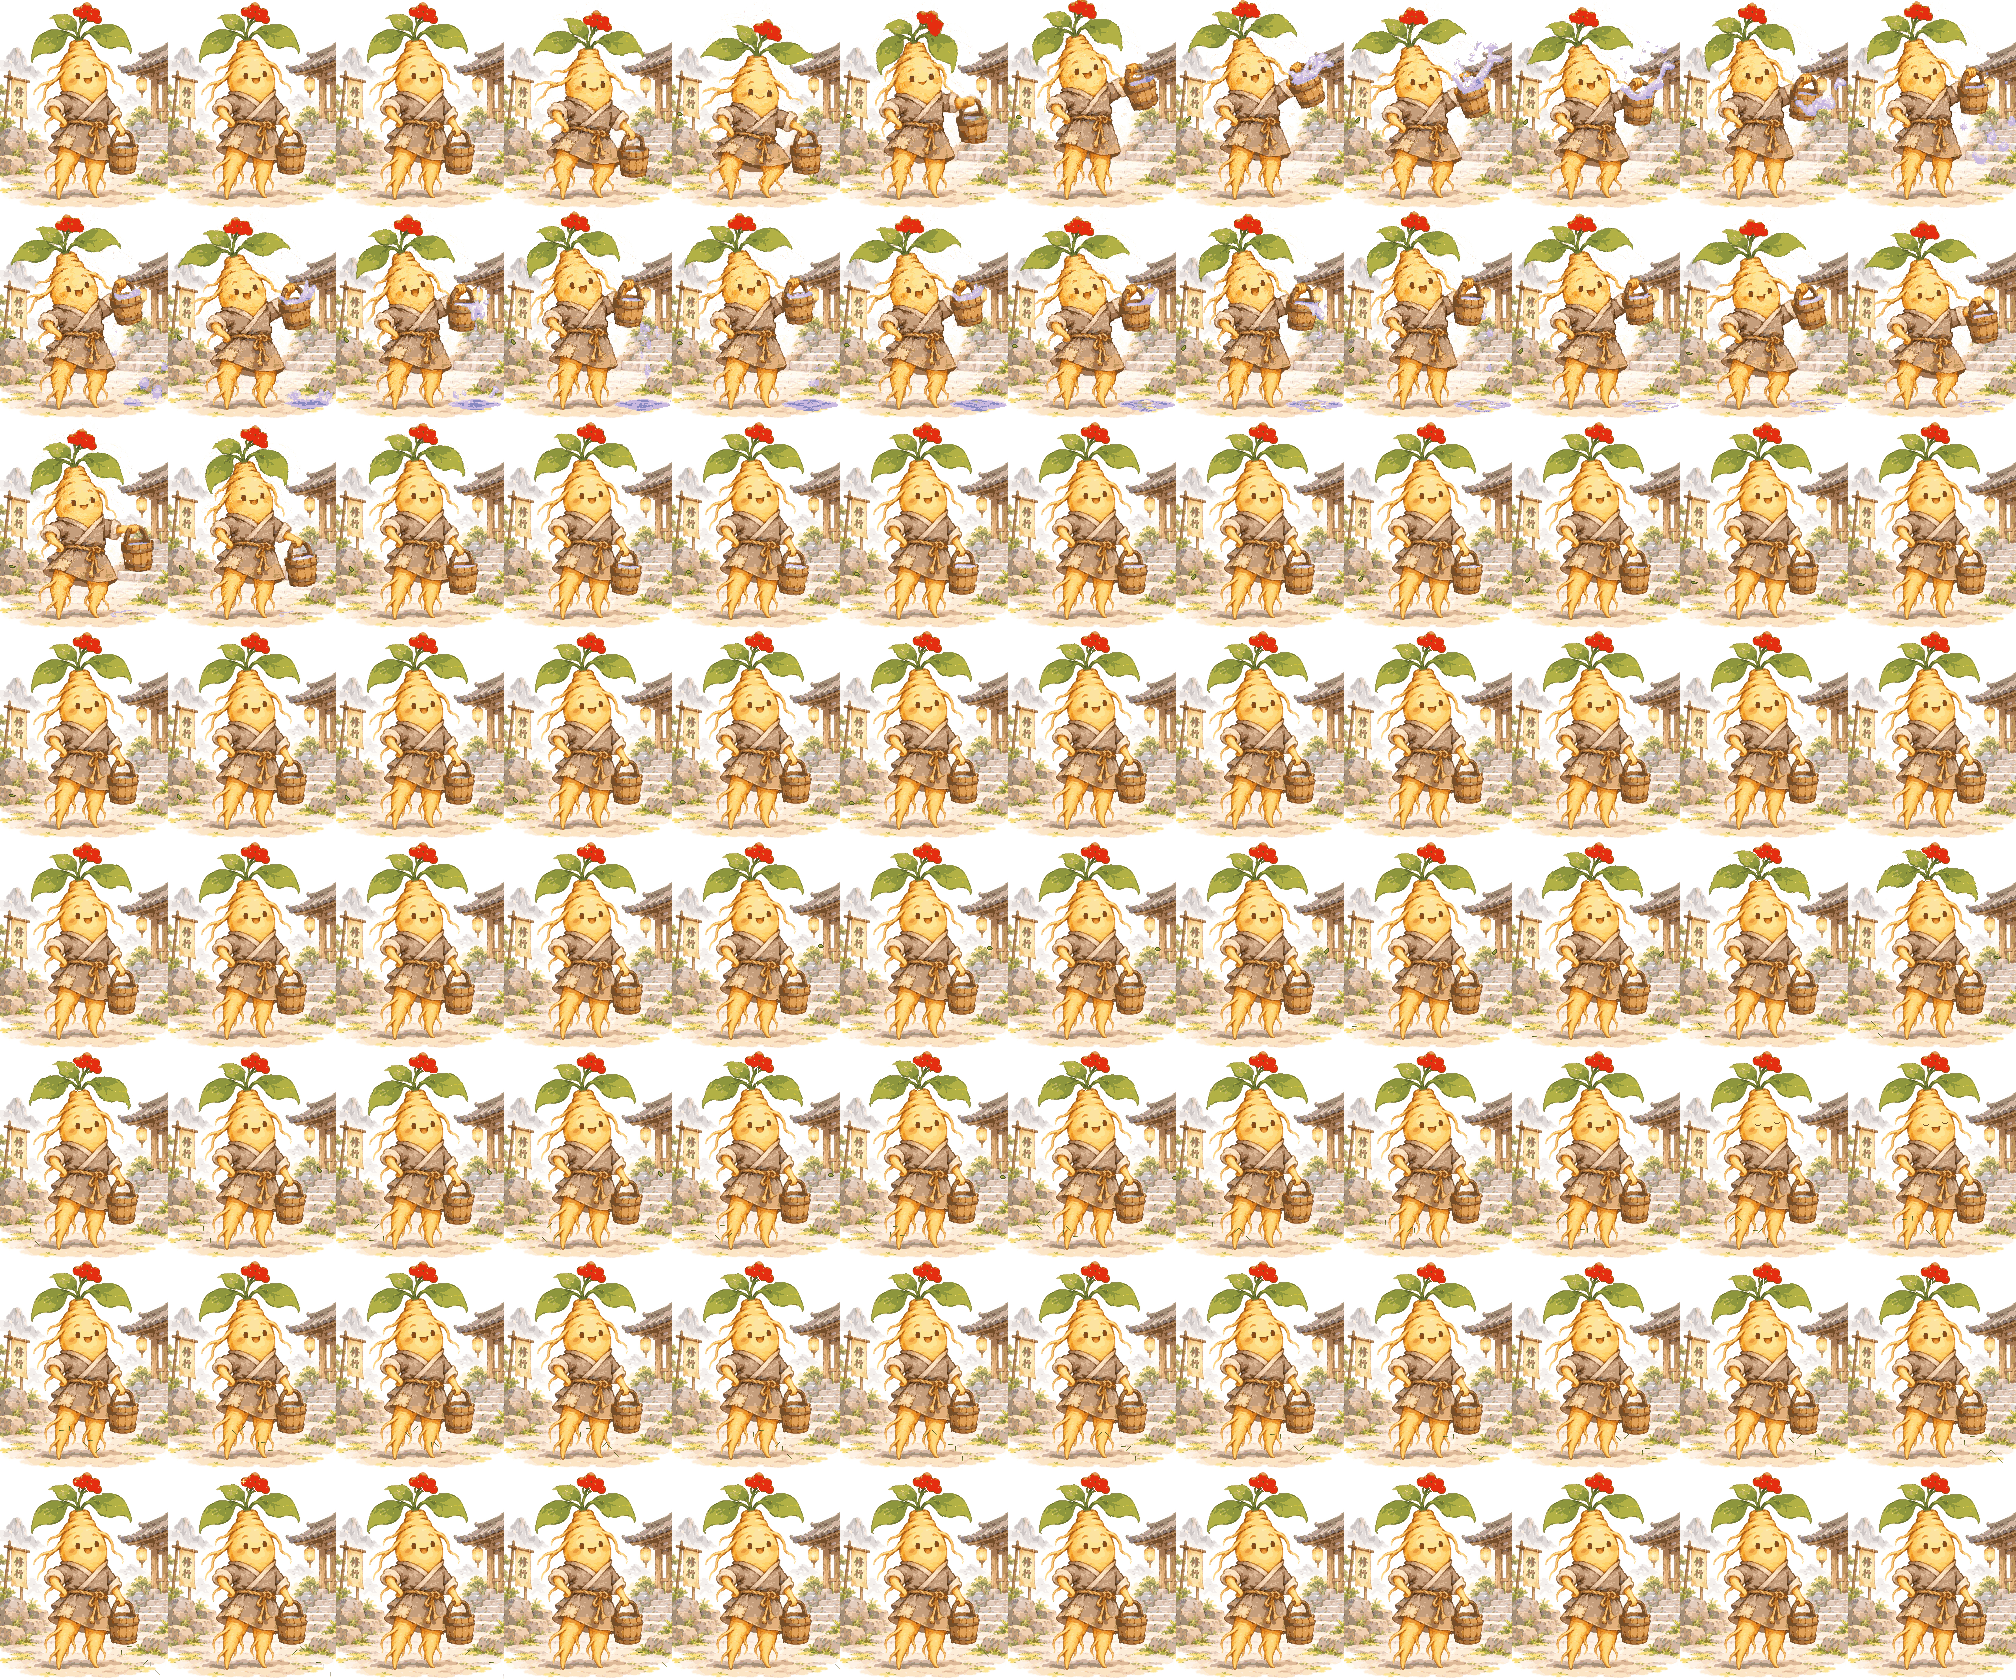
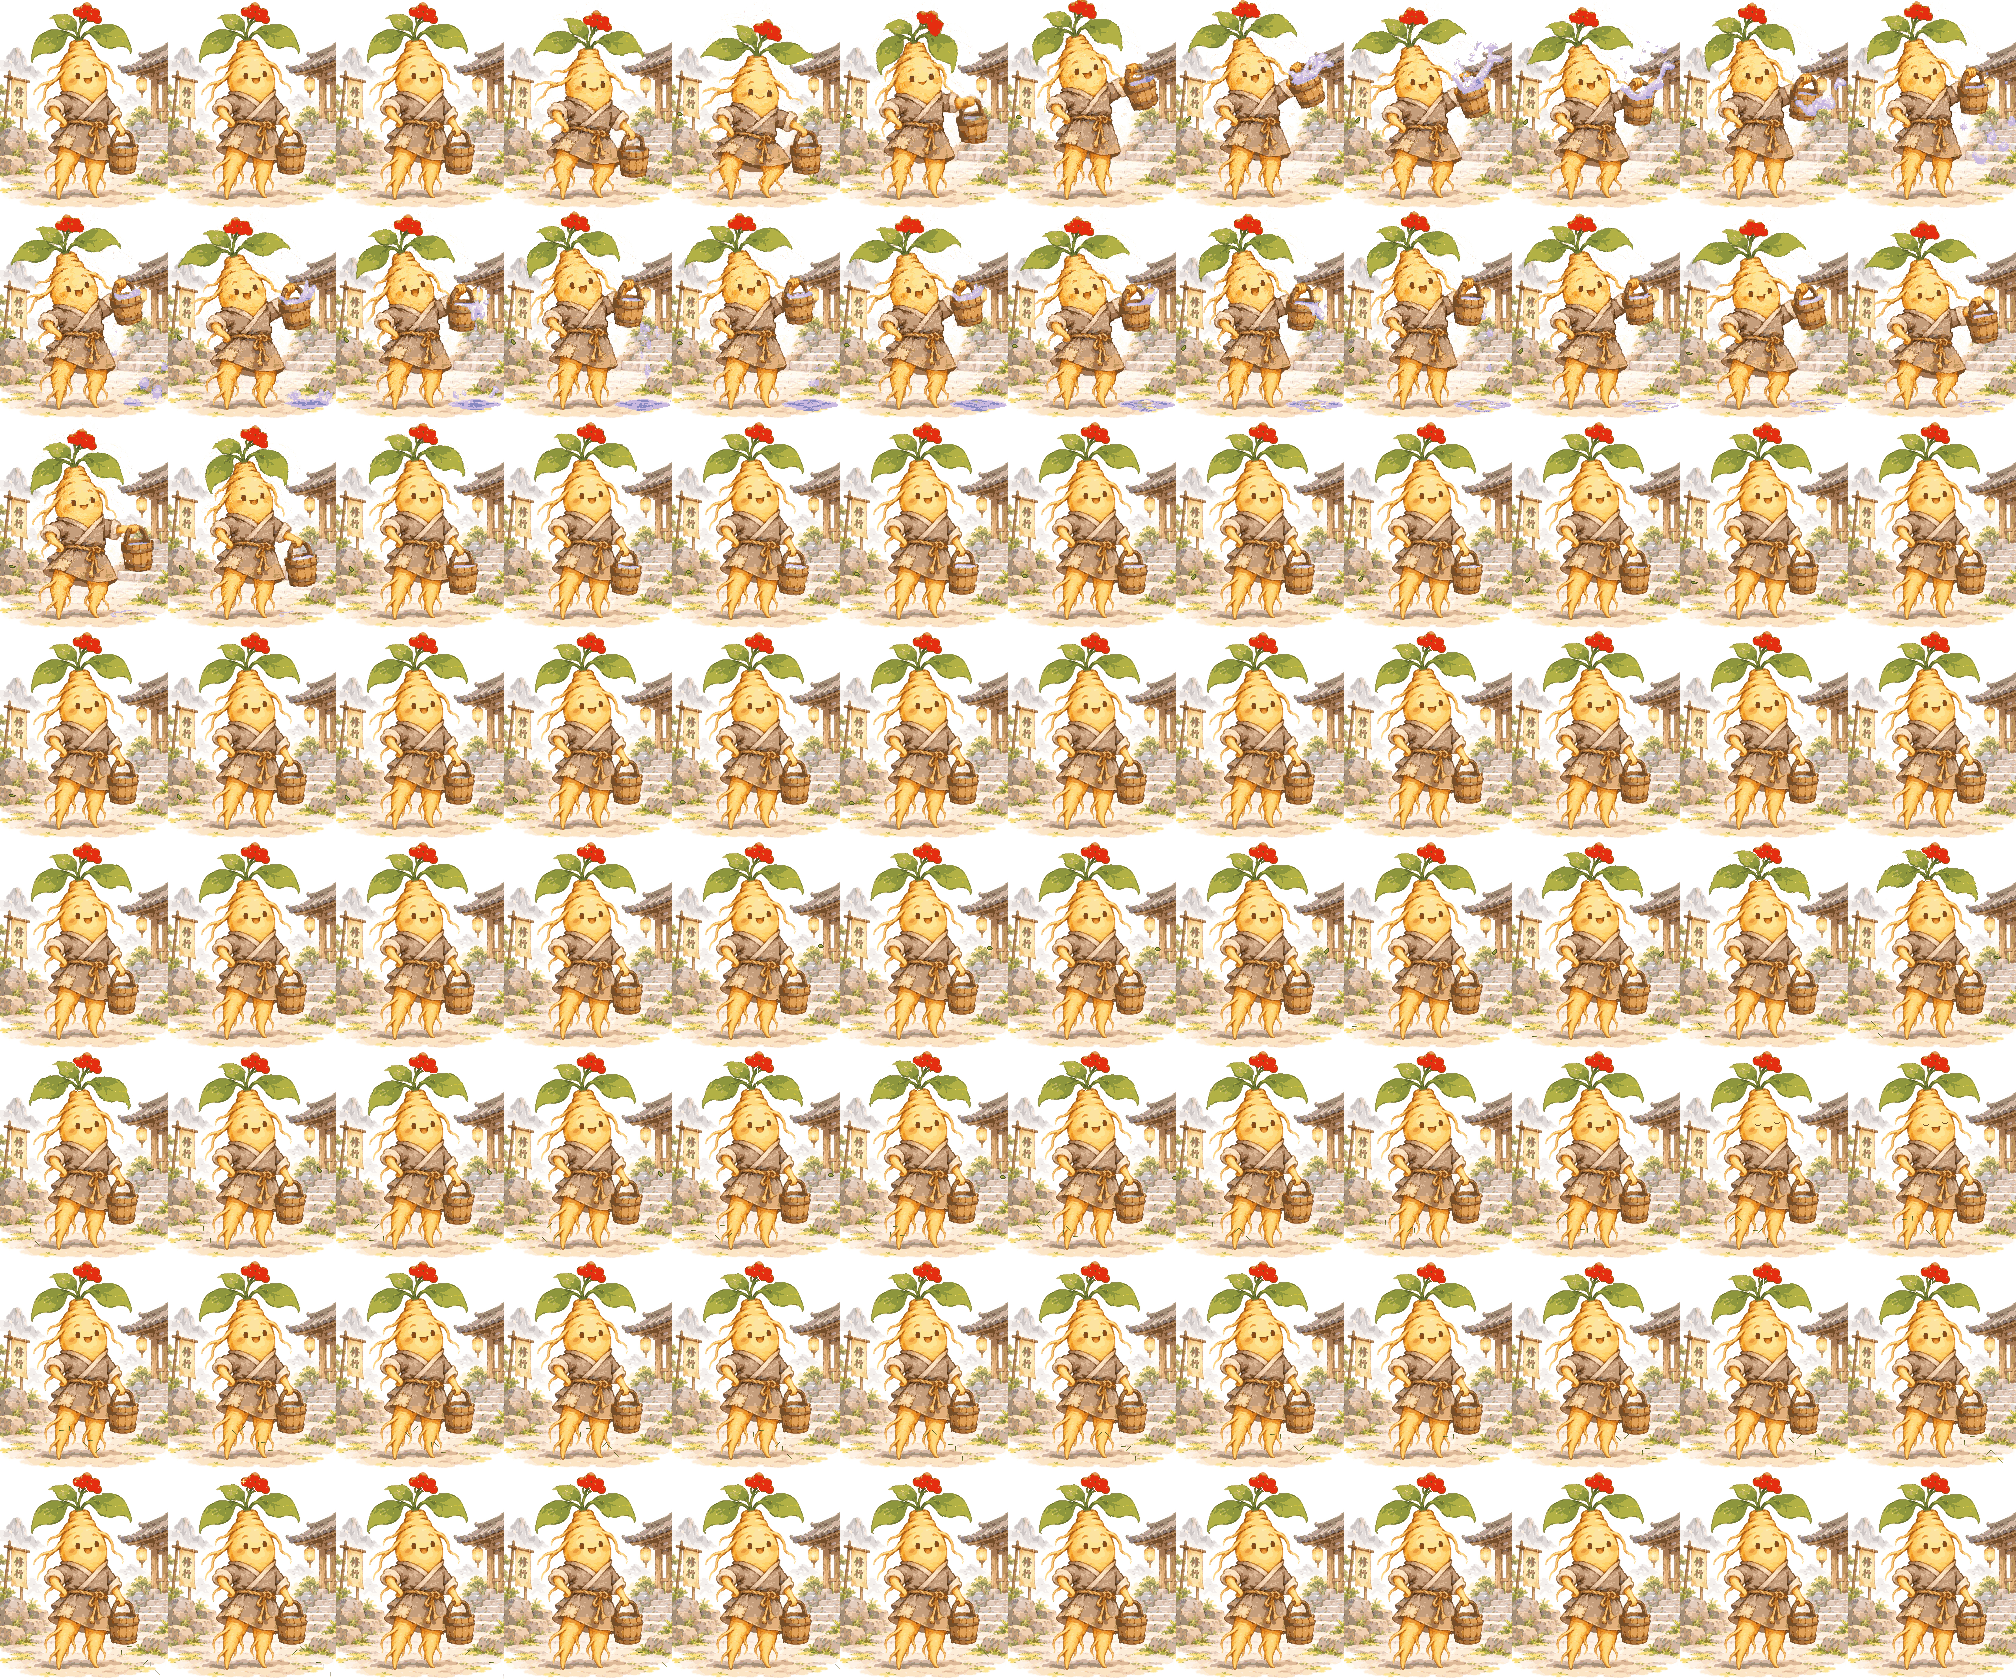
[立繪] B 方案 14 張全做：6 秒招牌動作接進程式動畫，收尾逐步換回原圖
- 13 張用 H3 各生 6 秒（指令寫死哪隻手不動，沒有再多手）；縮回像素、疊回環境特效、接在第 0 到 43 格
- 照片長取格（6.58 秒 = 44 格，最後一格取片尾）；最後 4 格依差距逐步換回原圖像素，出場只剩程式動畫本來就有的呼吸一格
- 對位：H3 片子固定 1440x1792，先試固定位置，對得上九成就不再慢慢找
- splice_all.py 一次跑 4 張；十四張_B6_一輪.gif 一次看全部
- 付費造型（make_style_anims.py）還沒接 B，app 也還沒換

Changed region(s): [[0.4375, 0.3714, 0.5625, 0.4952], [0.5938, 0.3714, 0.6562, 0.4952], [0.3438, 0.3714, 0.4062, 0.4952]]

diff --git a/.uiux/像素風立繪/水桶修圖實驗/B_影片/video_splice.py b/.uiux/像素風立繪/水桶修圖實驗/B_影片/video_splice.py
@@ -4,7 +4,7 @@
 為什麼不把 6 秒攤成 96 格：會變慢動作，提桶、水花都慢下來（0.5 倍慢放早就被退過）。
 
 做法：
-  1. 影片每 0.15 秒取一張（app 的播放速度），6 秒剛好 40 格；縮回 168×210、收色盤、防閃都跟 video15_to_pixels.py 同一套。
+  1. 影片每 0.15 秒取一張（app 的播放速度），片長 6.58 秒就是 44 格、最後一格取片尾；縮回 168×210、收色盤、防閃都跟 video15_to_pixels.py 同一套。
   2. 塞進程式動畫的第 START 格起，換掉程式做的那段招牌動作。程式動畫前 48 格身體是「低」的那一拍，
      影片首尾都是原圖，接回去只差葉子被風帶的一兩格，不會整個人跳。
   3. 影片那幾格照樣疊上同一格的環境特效（落葉、草屑、燈火……），特效才不會在動作那 6 秒消失：
@@ -25,9 +25,12 @@ from scipy import ndimage
 import video15_to_pixels as P
 from video15_to_pixels import A, GH, GW, V, px
 
-CLIP_FRAMES = 40       # 6 秒 ÷ 0.15 秒
 DEFAULT_START = 0      # 程式動畫第 0 格就是原圖，從這裡接最不會跳
 CHAR_LAB = 10          # 跟背景層差多少（Lab 距離）才算角色
+# 收尾：影片最後一張姿勢回到原圖了，但重畫過的毛邊、衣紋跟原圖的像素對不上，直接接回程式動畫那一格像突然變銳利
+# （出場那格差 5000 到 1 萬格，平常相鄰只差幾百）。最後幾格照這些門檻（Lab 距離）逐步換回原圖的像素，
+# 差得少的先換，最後一格整張就是原圖
+SETTLE_LAB = [25, 45, 70, None]
 
 
 def main():
@@ -37,8 +40,6 @@ def main():
     start = int(sys.argv[3]) if len(sys.argv) > 3 else DEFAULT_START
     if not os.path.isfile(video):
         raise SystemExit('找不到影片：' + video)
-    if not 0 <= start <= A.N - CLIP_FRAMES:
-        raise SystemExit('START 要在 0 到 %d 之間' % (A.N - CLIP_FRAMES))
 
     rg, pal, mask = A.build_rig(V.FOLDER, name)
     base, _ = A.load(V.FOLDER, name)
@@ -46,9 +47,22 @@ def main():
     quant = lambda rgb: pal[px.nearest(px.rgb2lab(np.clip(rgb, 0, 255).reshape(-1, 3)), pal_lab).reshape(GH, GW)].astype(np.float32)
 
     files = P.extract(video, name + '_B6')
-    # H3 出的片子是一秒 24 張，長度會比要的多一點（6 秒出 6.58 秒），所以照張數算時間，不照片長平分
-    picks = [int(round(k * V.STEP_S * V.FPS)) for k in range(CLIP_FRAMES)]
+    # H3 出的片子是一秒 24 張，長度會比要的多一點（6 秒出 6.58 秒）。照片長算要幾格（6.58 秒 → 44 格），
+    # 最後一格一定取片尾：片尾才是回到原圖的那一張。第一版只取到 5.85 秒，結尾沒收回原圖，
+    # 接回程式動畫那一格整片跳掉（14 張都是，相鄰兩格差 5000 格以上，平常只差幾百）
+    clip_frames = int(round(len(files) / V.FPS / V.STEP_S))
+    if not 0 <= start <= A.N - clip_frames:
+        raise SystemExit('START 要在 0 到 %d 之間' % (A.N - clip_frames))
+    picks = [int(round(k * V.STEP_S * V.FPS)) for k in range(clip_frames - 1)] + [len(files) - 1]
     clip = P.to_cells(files, base, pal, pal_lab, picks)
+    base_lab = P.lab(base)
+    for j, limit in enumerate(SETTLE_LAB):
+        k = clip_frames - len(SETTLE_LAB) + j
+        if limit is None:
+            clip[k] = base.copy()
+            continue
+        close = np.linalg.norm(P.lab(clip[k]) - base_lab, axis=-1) < limit
+        clip[k] = np.where(close[..., None], base, clip[k])
 
     frames = [f.astype(np.float32) for f in rg.frames()]
     bg_lab = P.lab(rg.bg)
@@ -57,7 +71,7 @@ def main():
     for f in range(A.N):
         r, c = divmod(f, A.COLS)
         k = f - start
-        if 0 <= k < CLIP_FRAMES:
+        if 0 <= k < clip_frames:
             img = clip[k].copy()
             lay = A.layers(rg, mask, f)
             char = np.linalg.norm(P.lab(img) - bg_lab, axis=-1) > CHAR_LAB
@@ -86,14 +100,14 @@ def main():
     gif = [Image.fromarray(P.big(cell)) for cell in sheet_cells]
     gif[0].save(os.path.join(P.HERE, name + '_B6_一輪.gif'), save_all=True, append_images=gif[1:], duration=150, loop=0)
     # 接縫：影片進場前後、出場前後各三格
-    picks = [start - 2, start - 1, start, start + 1, None, start + CLIP_FRAMES - 2, start + CLIP_FRAMES - 1,
-             start + CLIP_FRAMES, start + CLIP_FRAMES + 1]
+    picks = [start - 2, start - 1, start, start + 1, None, start + clip_frames - 2, start + clip_frames - 1,
+             start + clip_frames, start + clip_frames + 1]
     strip = np.full((GH * P.S, (GW * P.S + P.GAP) * len(picks), 3), 40, np.uint8)
     for j, f in enumerate(picks):
         if f is not None:
             strip[:, j * (GW * P.S + P.GAP):j * (GW * P.S + P.GAP) + GW * P.S] = P.big(sheet_cells[f % A.N])
     Image.fromarray(strip).save(os.path.join(P.HERE, name + '_B6_接縫.png'))
-    print('接在第', start, '到', start + CLIP_FRAMES - 1, '格')
+    print('接在第', start, '到', start + clip_frames - 1, '格')
 
 
 if __name__ == '__main__':

diff --git a/.uiux/像素風立繪/水桶修圖實驗/B_影片/splice_all.py b/.uiux/像素風立繪/水桶修圖實驗/B_影片/splice_all.py
@@ -1,0 +1,45 @@
+"""一次處理好幾張：下載 H3 影片、各自跑 video_splice.py，同時跑 4 張。
+
+用法：python splice_all.py 清單.json
+清單.json：{"代號": "影片網址", ...}。影片存成 {代號}_6s_raw.mp4，已經下載過的不再抓。
+哪一張失敗就把它的錯誤印出來，最後列出失敗的代號；有失敗就以非零結束。
+"""
+import json
+import os
+import subprocess
+import sys
+from concurrent.futures import ThreadPoolExecutor
+
+HERE = os.path.dirname(os.path.abspath(__file__))
+WORKERS = 4
+
+
+def one(name, url):
+    video = os.path.join(HERE, name + '_6s_raw.mp4')
+    if not os.path.isfile(video):
+        subprocess.run(['curl', '-sf', '-o', video, url], check=True)
+    run = subprocess.run(
+        [sys.executable, os.path.join(HERE, 'video_splice.py'), video, name],
+        capture_output=True, text=True, encoding='utf-8', env={**os.environ, 'PYTHONIOENCODING': 'utf-8'},
+    )
+    return name, run.returncode, (run.stdout + run.stderr).strip()
+
+
+def main():
+    if len(sys.argv) != 2:
+        raise SystemExit('用法：python splice_all.py 清單.json')
+    with open(sys.argv[1], encoding='utf-8') as f:
+        jobs = json.load(f)
+    failed = []
+    with ThreadPoolExecutor(WORKERS) as pool:
+        for name, code, log in pool.map(lambda item: one(*item), jobs.items()):
+            print('==', name, '成功' if code == 0 else '失敗')
+            print(log)
+            if code != 0:
+                failed.append(name)
+    if failed:
+        raise SystemExit('失敗：' + '、'.join(failed))
+
+
+if __name__ == '__main__':
+    main()

diff --git a/.uiux/像素風立繪/水桶修圖實驗/B_影片/video15_to_pixels.py b/.uiux/像素風立繪/水桶修圖實驗/B_影片/video15_to_pixels.py
@@ -24,6 +24,9 @@ import video_to_pixels as V
 from video_to_pixels import A, px, GH, GW, grow, shrink, lab, sample
 
 HERE = V.HERE
+H3_SIZE = (1440, 1792)
+H3_MAPPING = (8.571, 8.533, 0, 0)
+H3_MATCH = 0.85
 S, GAP = 3, 8
 
 
@@ -44,8 +47,13 @@ def to_cells(files, base, pal, pal_lab, picks=None):
     quant = lambda rgb: pal[px.nearest(px.rgb2lab(np.clip(rgb, 0, 255).reshape(-1, 3)), pal_lab).reshape(GH, GW)].astype(np.float32)
     first = np.asarray(Image.open(files[0]).convert('RGB')).astype(np.float32)
     h, w = first.shape[:2]
+    # H3 出的片子都是 1440×1792，前四支對到的都是同一組位置：先試它，原圖對得上九成就不用慢慢找（一張省好幾分鐘）
     best = None
-    for sx in np.arange(w / GW - 0.12, w / GW + 0.121, 0.02):
+    if (w, h) == H3_SIZE:
+        same = (np.abs(quant(sample(first, *H3_MAPPING)) - base).sum(-1) == 0).mean()
+        if same >= H3_MATCH:
+            best = (same,) + H3_MAPPING
+    for sx in (np.arange(w / GW - 0.12, w / GW + 0.121, 0.02) if best is None else []):
         for sy in np.arange(h / GH - 0.12, h / GH + 0.121, 0.02):
             for ox in range(-6, 7, 2):
                 for oy in range(-6, 7, 2):
